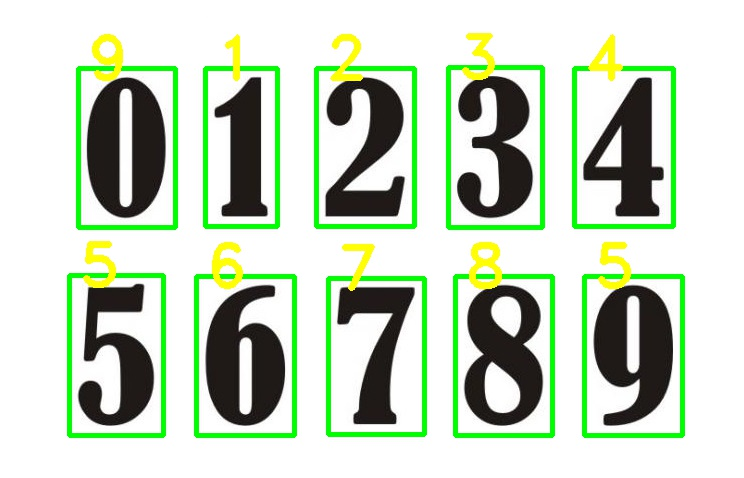
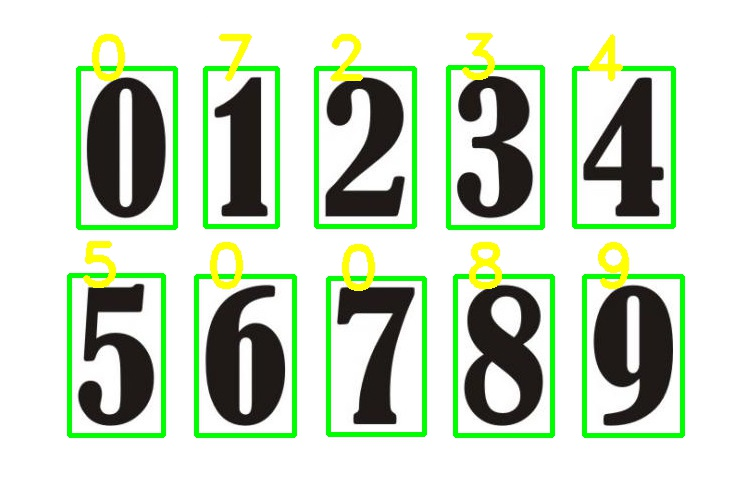
Updated few parameters for better performance

diff --git a/Project 5 Digit Detection & Recognition/performRecognition.py b/Project 5 Digit Detection & Recognition/performRecognition.py
@@ -3,7 +3,7 @@ import cv2
 import numpy as np
 
 # Read the input image 
-im = cv2.imread("photo_3.jpg")
+im = cv2.imread("photo_1.jpg")
 
 # Convert to grayscale and apply Gaussian filtering
 im_gray = cv2.cvtColor(im, cv2.COLOR_BGR2GRAY)
@@ -32,10 +32,10 @@ for rect in rects:
     # Draw the rectangles
     cv2.rectangle(im, (rect[0]-10, rect[1]-10), (rect[0] + rect[2]+10, rect[1] + rect[3]+10), (0, 255, 0), 3) 
     # Make the rectangular region around the digit
-    leng = int(rect[3] * 1.6)
+    leng = int(rect[3] * 1.2)
     pt1 = int(rect[1] + rect[3] // 2 - leng // 2)
     pt2 = int(rect[0] + rect[2] // 2 - leng // 2)
-    roi = im_th[pt1:pt1+leng - 1, pt2:pt2+leng + 4]
+    roi = im_th[pt1:pt1+leng , pt2:pt2+leng ]
     # Resize the image
     if roi.any():
         roi = cv2.resize(roi, (28, 28), interpolation=cv2.INTER_AREA)
@@ -52,4 +52,4 @@ cv2.waitKey()
 
 #Saving the output
 cv2.destroyAllWindows()
-cv2.imwrite("output_3.jpeg",im)
+cv2.imwrite("output_2.jpeg",im)
